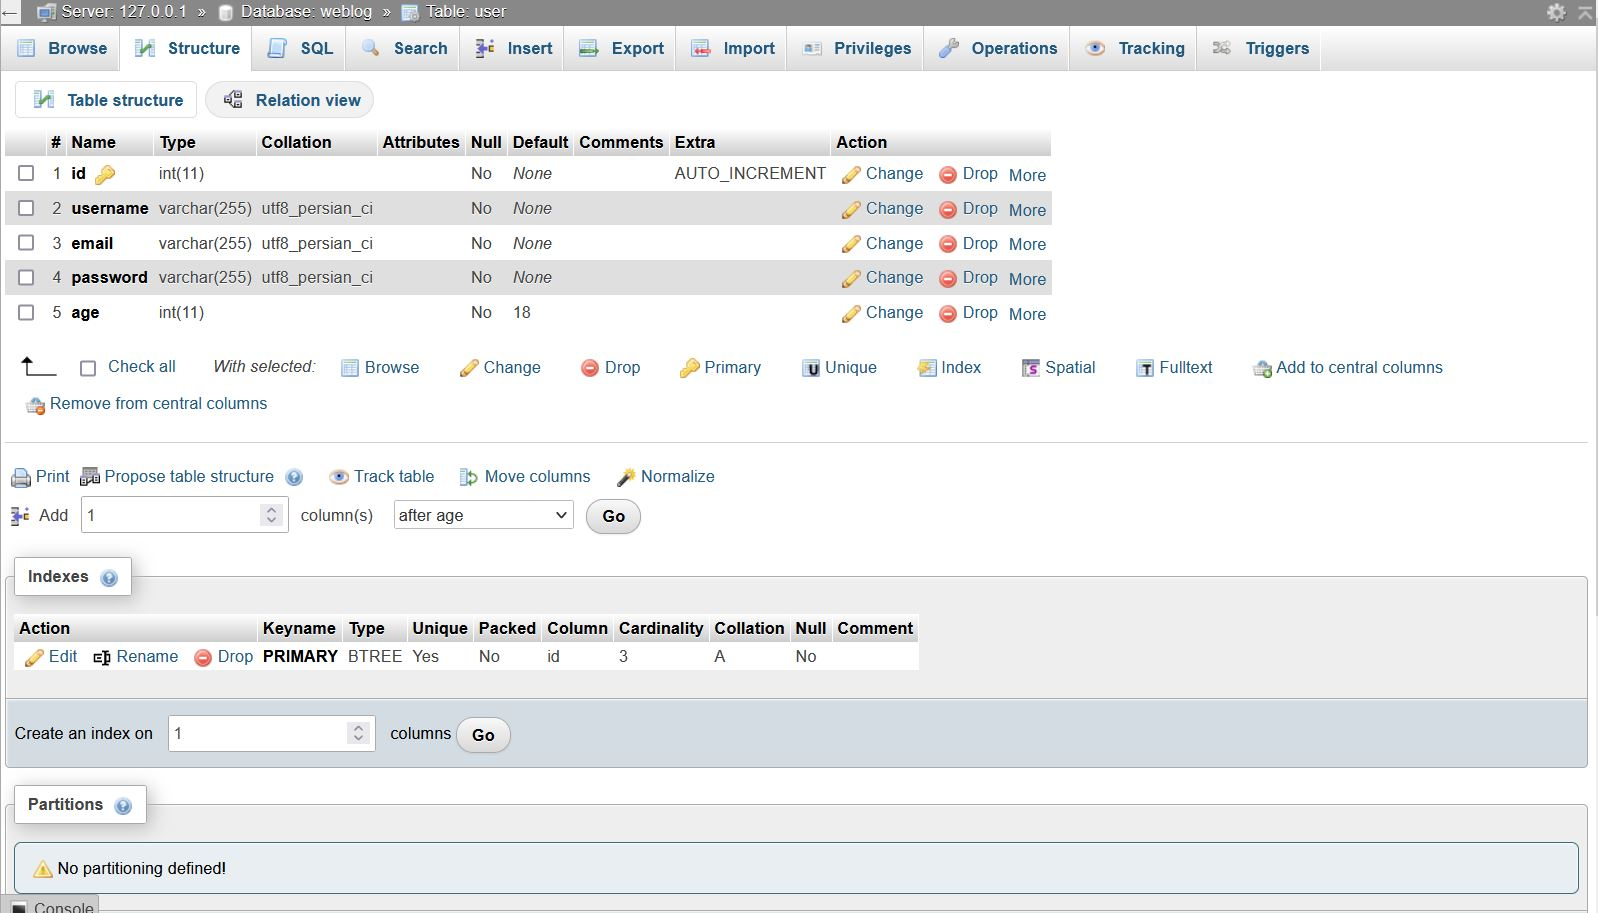
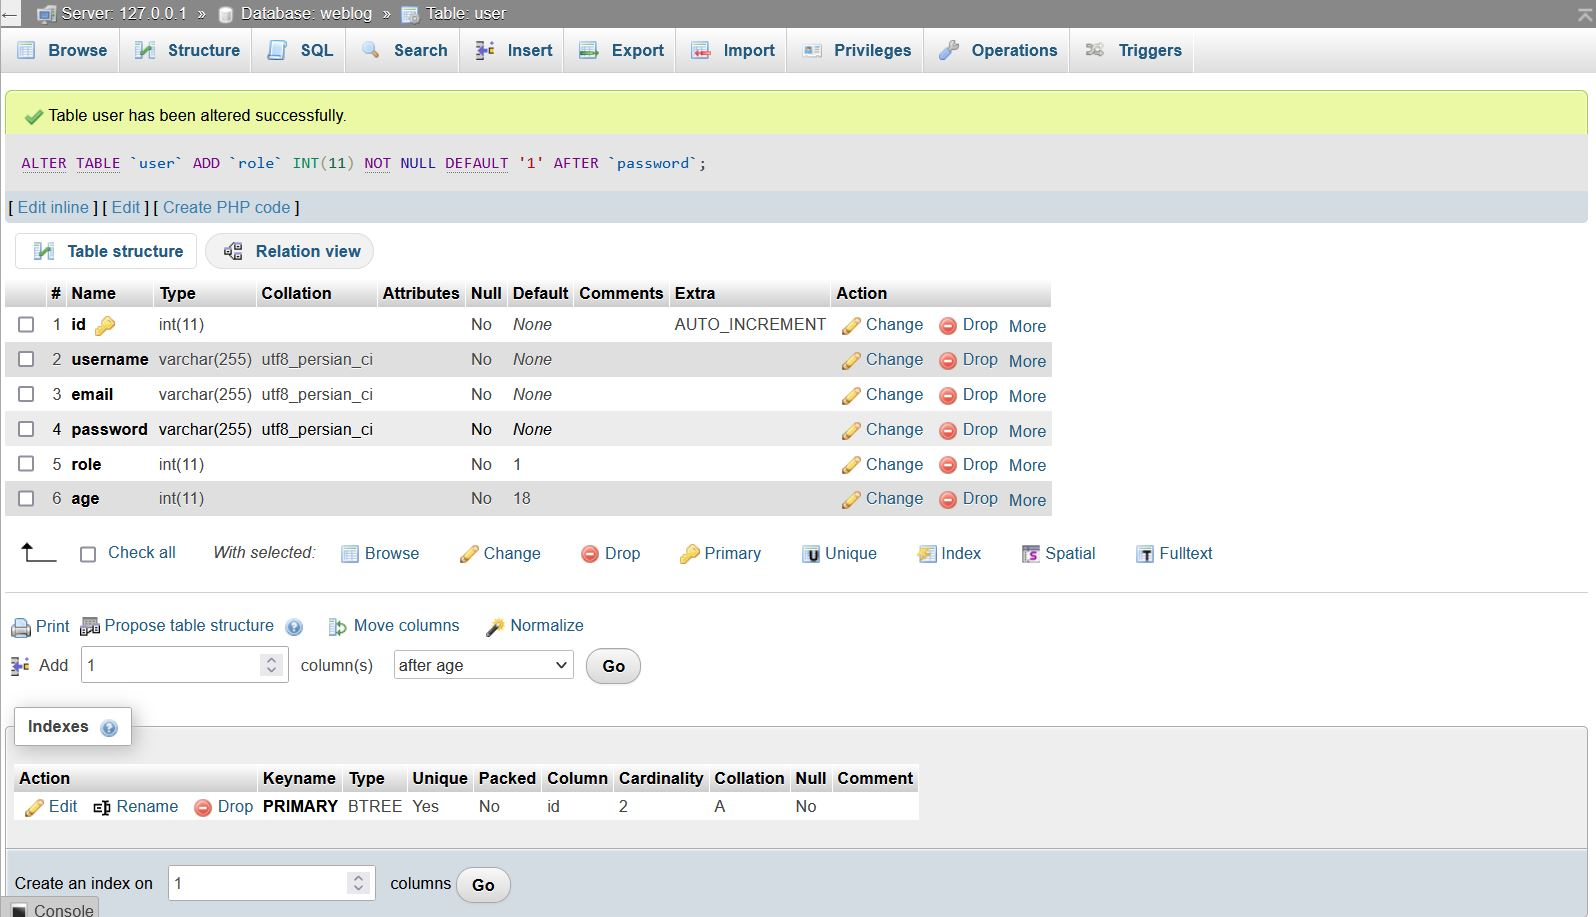
Admin panel limitation

diff --git a/page/index.php b/page/index.php
@@ -34,7 +34,8 @@ include '../php/db.php';?>
           <a class="dropdown-item" href="#">ایمیل : <?php echo $_SESSION['email']; ?></a>
           <a class="dropdown-item" href="#">سن : <?php echo $_SESSION['age']; ?></a>
           <a class="dropdown-item" href="#">اسم : <?php echo $_SESSION['username']; ?></a>
-          <a class="dropdown-item" href="log.php">خروج</a>
+          <?php if($_SESSION['role']==2){ ?> <a class="dropdown-item" href="admin/admin.php">پنل ادمین : <?php echo $_SESSION['role']; ?></a> <?php } ?>
+          <a class="dropdown-item" href="../php/log.php">خروج</a>
         </div>
       </li>
       <?php } else { ?>

diff --git a/PHP/loginCheck.php b/PHP/loginCheck.php
@@ -22,6 +22,7 @@ if(isset($_POST['login'])){
             $_SESSION['password']=$password;
             $_SESSION['age'] = $rows['age'];
             $_SESSION['username'] = $rows['username'];
+            $_SESSION['role'] = $rows['role'];
             if(isset($_POST['rem'])){
                 setcookie('email',$_SESSION['email'],time()+60*60*24*7,'/'); 
                 setcookie('password',$_SESSION['password'],time()+60*60*24*7,'/');          

diff --git a/PHP/db.php b/PHP/db.php
@@ -26,5 +26,6 @@ if(isset($_COOKIE['email'])){
         $_SESSION['password']=$rows['password'];
         $_SESSION['age'] = $rows['age'];
         $_SESSION['username'] = $rows['username'];
+        $_SESSION['role'] = $rows['role'];
 }
 }

diff --git a/PHP/log.php b/PHP/log.php
@@ -3,4 +3,4 @@ session_start();
 setcookie('email',$_SESSION['email'],time()-1,'/'); 
 setcookie('password',$_SESSION['password'],time()-1,'/'); 
 session_destroy();
-header('location:login.php');
+header('location:../page/login.php');

diff --git a/page/admin/admin.php b/page/admin/admin.php
@@ -1,3 +1,12 @@
+<?php  
+session_start();
+ include '../../php/db.php';
+
+ if($_SESSION['role']!=2){
+  header('location:../index.php');
+ }
+
+?>
 <!DOCTYPE html>
 <html lang="en">
 <head>

diff --git a/PHP/blog.php b/PHP/blog.php
@@ -1,6 +1,10 @@
 <?php
 include 'db.php';
+session_start();
 
+ if($_SESSION['role']!=2){
+  header('location:../index.php');
+ }
 if(isset($_POST['Record'])){
 
     $title=$_POST['title'];

diff --git a/PHP/menu.php b/PHP/menu.php
@@ -1,5 +1,10 @@
 <?php
 include 'db.php';
+session_start();
+
+ if($_SESSION['role']!=2){
+  header('location:../index.php');
+ }
 $num = 1;
 if(isset($_POST['Record'])){
  

diff --git a/PHP/writer.php b/PHP/writer.php
@@ -1,5 +1,10 @@
 <?php
 include 'db.php';
+session_start();
+
+ if($_SESSION['role']!=2){
+  header('location:../index.php');
+ }
 $num = 1;
 if(isset($_POST['Record'])){
  
